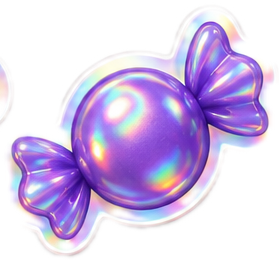
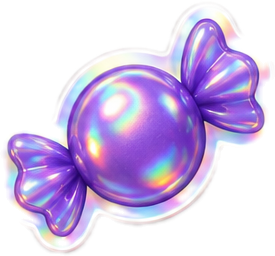
feat(сезон): «Сладость» — шапка-картинка с пауком и скелетом, ровные конфеты
- Шапка «Сладости» на компьютере без текста: паук на паутине в левом верхнем
  углу и скелет на нитке справа (оба качаются от точки подвеса), ведёрко и
  конфета-наклейка; заголовок — только для экранного диктора. На телефоне текст остался.
- Новые 3D: spider-web, skeleton (gpt-image в Figma → вырезка Vision).
- Конфета на дорожке и в шапке стоит ровно (рисунок наклонён на 30°);
  у наклейки убран обрезок соседней.
- Ведёрко в плитке «Конфеты» правее и выше — выглядывает за край.

diff --git a/src/components/season/season.css b/src/components/season/season.css
@@ -112,7 +112,7 @@ html[data-season] .season-hero-row { position: relative; z-index: 2; margin-top:
 .season-hero--candy .season-hero__img { right: 9%; bottom: 4px; height: 168px; filter: drop-shadow(0 20px 30px rgba(194, 81, 10, 0.25)); }
 /* Наклейки вокруг ведёрка, как в макете: конфета слева снизу, луна в правом верхнем углу. */
 .season-hero__sticker { position: absolute; width: auto; pointer-events: none; filter: drop-shadow(0 6px 10px rgba(124, 108, 224, 0.3)); }
-.season-hero__sticker--candy { right: calc(9% + 190px); bottom: 10px; height: 44px; transform: rotate(-18deg); }
+.season-hero__sticker--candy { right: calc(9% + 190px); bottom: 14px; height: 44px; transform: rotate(30deg); }
 .season-hero__sticker--moon { right: 22px; top: 12px; height: 46px; transform: rotate(12deg); }
 
 /* Телефон: карточка-шапка в ленте главной. */
@@ -175,7 +175,7 @@ html[data-season-variant="candy"] .stat-card--season-stars {
    и чуть выглядывает за верх. */
 html[data-season-variant="candy"] .stats-grid:not([data-triple]) { grid-template-columns: 1fr 1fr 1fr 1.75fr !important; }
 html[data-season-variant="candy"] .stat-card--season-stars .season-stat-img {
-  position: absolute; right: -4px; bottom: 8px; height: 90% !important; max-height: 150px;
+  position: absolute; right: -22px; bottom: 22px; height: 90% !important; max-height: 150px;
   filter: drop-shadow(0 12px 18px rgba(154, 58, 0, 0.3));
 }
 html[data-season-variant="candy"] .stat-card--season-stars .stat-value,
@@ -246,7 +246,7 @@ html[data-season-variant="potions"] .season-track-fill {
   transform: translate(-50%, 42%); pointer-events: none;
 }
 .season-node-img--lanterns { filter: drop-shadow(0 0 22px rgba(255, 179, 71, 0.75)); transform: translate(-50%, 48%) scale(0.86); transform-origin: 50% 2%; }
-.season-node-img--candy { transform: translate(-50%, 50%) scale(0.72) rotate(-12deg); filter: drop-shadow(0 6px 10px rgba(124, 108, 224, 0.35)); }
+.season-node-img--candy { transform: translate(-50%, 50%) scale(0.72) rotate(30deg); filter: drop-shadow(0 6px 10px rgba(124, 108, 224, 0.35)); }
 .season-node-orb {
   position: absolute; inset: -4px; border-radius: 999px; z-index: 2; pointer-events: none;
   background: #34D399; box-shadow: 0 0 0 4px #fff, 0 0 22px rgba(52, 211, 153, 0.7);
@@ -398,4 +398,29 @@ html[data-season-variant="potions"] .season-node-label--now { position: relative
 }
 @media (prefers-reduced-motion: reduce) {
   .season-node-wrap:hover .season-node-img, .season-node-wrap:hover .season-node-orb { animation: none; }
+}
+
+/* «Сладость» на компьютере — шапка-картинка без текста: паук на паутине в левом
+   верхнем углу (паутина зеркальная, растёт из угла), справа ведёрко и скелет на нитке.
+   Оба качаются от точки подвеса; при «меньше движения» висят спокойно. */
+.season-hero--picture { min-height: 112px; }
+.season-hero__spider {
+  position: absolute; left: 14px; top: 4px; height: 100px; width: auto; pointer-events: none;
+  transform-origin: 0 0; animation: season-spider-sway 5s ease-in-out infinite;
+  filter: drop-shadow(0 6px 10px rgba(30, 24, 48, 0.18));
+}
+.season-hero__skeleton {
+  position: absolute; right: 2.5%; top: -24px; height: 128px; width: auto; pointer-events: none;
+  transform-origin: 50% 0; animation: season-skeleton-swing 3.4s ease-in-out infinite alternate;
+  filter: drop-shadow(0 10px 14px rgba(30, 24, 48, 0.2));
+}
+@keyframes season-spider-sway { 0%, 100% { rotate: 0deg; } 50% { rotate: 2.5deg; } }
+@keyframes season-skeleton-swing { from { rotate: -7deg; } to { rotate: 7deg; } }
+@media (prefers-reduced-motion: reduce) {
+  .season-hero__spider, .season-hero__skeleton { animation: none; }
+}
+@media (min-width: 1024px) and (max-height: 860px) {
+  .season-hero--picture { min-height: 96px; }
+  .season-hero__spider { height: 86px; }
+  .season-hero__skeleton { height: 112px; }
 }

diff --git a/src/components/season/Season.tsx b/src/components/season/Season.tsx
@@ -62,19 +62,27 @@ export function SeasonHero({ compact = false }: { compact?: boolean }) {
   const s = useSeason()
   if (!s.on('hero') || !s.variant || !s.season) return null
   const c = heroCopy(s.variant, untilLabel(s.season.endsAt))
+  // «Сладость» на компьютере — чистая картинка без текста (решение Дани 29.10.2026):
+  // паук на паутине слева, справа ведёрко и качающийся скелет. Заголовок остаётся
+  // для экранного диктора. На телефоне текст нужен — без него карточка непонятна.
+  const pictureOnly = s.variant === 'candy' && !compact
   return (
-    <div className={`season-hero season-hero--${s.variant}${compact ? ' season-hero--compact' : ''}`}>
-      <div className="season-hero__copy">
-        <span className="season-hero__chip">{t(c.chip)}</span>
-        <h2 className="season-hero__title">{t(c.title)}</h2>
-        <p className="season-hero__sub">{t(c.sub)}</p>
-      </div>
+    <div className={`season-hero season-hero--${s.variant}${compact ? ' season-hero--compact' : ''}${pictureOnly ? ' season-hero--picture' : ''}`}>
+      {pictureOnly ? (
+        <h2 className="sr-only">{t(c.title)}</h2>
+      ) : (
+        <div className="season-hero__copy">
+          <span className="season-hero__chip">{t(c.chip)}</span>
+          <h2 className="season-hero__title">{t(c.title)}</h2>
+          <p className="season-hero__sub">{t(c.sub)}</p>
+        </div>
+      )}
       <img aria-hidden src={seasonImg(c.img)} alt="" className="season-hero__img season-float" />
-      {/* «Сладость»: наклейки вокруг ведёрка — конфета слева снизу, луна справа сверху. */}
-      {s.variant === 'candy' && !compact && (
+      {pictureOnly && (
         <>
+          <img aria-hidden src={seasonImg('spider-web')} alt="" className="season-hero__spider" />
           <img aria-hidden src={seasonImg('sticker-candy')} alt="" className="season-hero__sticker season-hero__sticker--candy" />
-          <img aria-hidden src={seasonImg('sticker-moon')} alt="" className="season-hero__sticker season-hero__sticker--moon" />
+          <img aria-hidden src={seasonImg('skeleton')} alt="" className="season-hero__skeleton" />
         </>
       )}
     </div>
